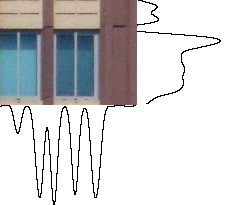
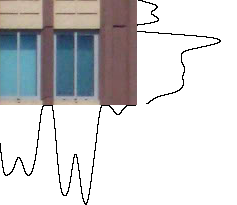
Fix a bug regarding Hor(y)

diff --git a/Test5/main.cpp b/Test5/main.cpp
@@ -120,15 +120,15 @@ void outputTileStructure(const cv::Mat& tile, const cv::Mat_<float>& Ver, const 
 				result.at<cv::Vec3b>(r, c) = tile.at<cv::Vec3b>(r, c);
 			}
 			else if (r < tile.rows - 1) {
-				int v1 = min(Ver(r, 0), Ver(r + 1, 0)) / (max_Ver - min_Ver) * 100;
-				int v2 = max(Ver(r, 0), Ver(r + 1, 0)) / (max_Ver - min_Ver) * 100;
+				int v1 = (min(Ver(r, 0), Ver(r + 1, 0)) - min_Ver) / (max_Ver - min_Ver) * 100;
+				int v2 = (max(Ver(r, 0), Ver(r + 1, 0)) - min_Ver) / (max_Ver - min_Ver) * 100;
 				if (c - tile.cols >= v1 && c - tile.cols <= v2) {
 					result.at<cv::Vec3b>(r, c) = cv::Vec3b(0, 0, 0);
 				}
 			}
 			else if (c < tile.cols - 1) {
-				int v1 = min(Hor(0, c), Hor(0, c + 1)) / (max_Hor - min_Hor) * 100;
-				int v2 = max(Hor(0, c), Hor(0, c + 1)) / (max_Hor - min_Hor) * 100;
+				int v1 = (min(Hor(0, c), Hor(0, c + 1)) - min_Hor) / (max_Hor - min_Hor) * 100;
+				int v2 = (max(Hor(0, c), Hor(0, c + 1)) - min_Hor) / (max_Hor - min_Hor) * 100;
 				if (r - tile.rows >= v1 && r - tile.rows <= v2) {
 					result.at<cv::Vec3b>(r, c) = cv::Vec3b(0, 0, 0);
 				}
@@ -691,7 +691,7 @@ void computeVerAndHor(const cv::Mat& img, cv::Mat_<float>& Ver, cv::Mat_<float>&
 	cv::Mat hor_xtotal;
 	cv::Mat hor_ytotal;
 	cv::reduce(hor, hor_xtotal, 1, cv::REDUCE_SUM);
-	cv::reduce(ver, hor_ytotal, 0, cv::REDUCE_SUM);
+	cv::reduce(hor, hor_ytotal, 0, cv::REDUCE_SUM);
 
 	// compute Ver(y) and Hor(x) according to Equation (4)
 	Ver = cv::Mat_<float>(grayImg.rows, 1, 0.0f);
@@ -716,6 +716,12 @@ void subdivideTile(cv::Mat& tile) {
 	cv::Mat_<float> Ver;
 	cv::Mat_<float> Hor;
 	computeVerAndHor(tile, Ver, Hor);
+
+	ofstream out("Hor.txt");
+	for (int i = 0; i < Hor.cols; ++i) {
+		out << Hor(0, i) << endl;
+	}
+	out.close();
 
 	// visualize Ver(y) and Hor(x)
 	outputTileStructure(tile, Ver, Hor, "tile2.png");

diff --git a/Test1/main.cpp b/Test1/main.cpp
@@ -72,7 +72,7 @@ int main() {
 	cv::Mat hor_xtotal;
 	cv::Mat hor_ytotal;
 	cv::reduce(hor, hor_xtotal, 1, cv::REDUCE_SUM);
-	cv::reduce(ver, hor_ytotal, 0, cv::REDUCE_SUM);
+	cv::reduce(hor, hor_ytotal, 0, cv::REDUCE_SUM);
 
 	// compute Ver(y) and Hor(x) according to Equation (4)
 	cv::Mat_<float> Ver(grayImg.rows, 1, 0.0f);
@@ -86,7 +86,7 @@ int main() {
 	}
 	for (int c = 0; c < grayImg.cols; ++c) {
 		for (int cc = 0; cc < grayImg.cols; ++cc) {
-			Hor(0, c) += (ver_ytotal.at<float>(0, cc) - beta * hor_ytotal.at<float>(0, cc)) * gause(cc - c, sigma);
+			Hor(0, c) += (hor_ytotal.at<float>(0, cc) - beta * ver_ytotal.at<float>(0, cc)) * gause(cc - c, sigma);
 		}
 	}
 
